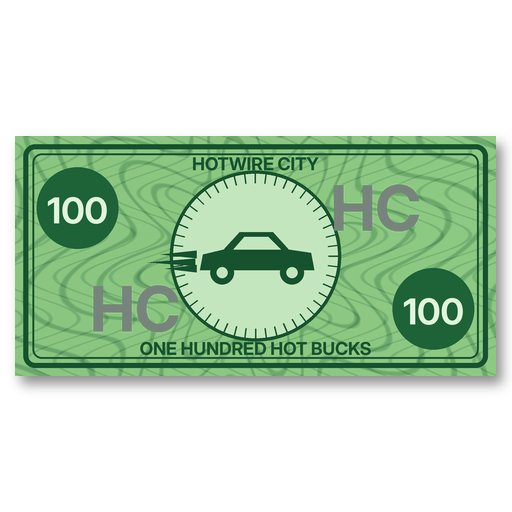
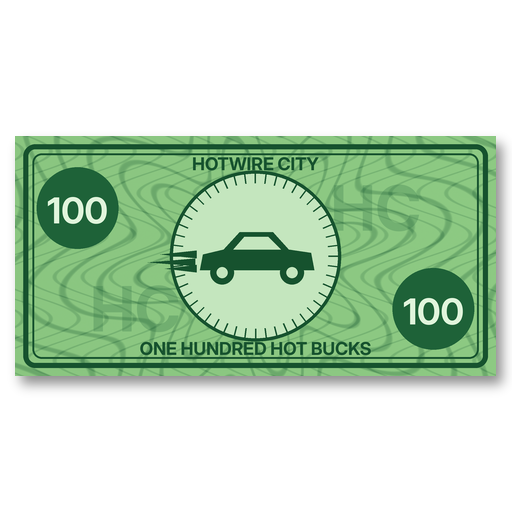
WIP snapshot (auto): workflows in progress
Claude-Session: https://claude.ai/code/session_013hTzzkEbxNRPuu2R1Xna4H

Changed region(s): [[0.625, 0.3438, 0.8125, 0.4688], [0.1562, 0.5625, 0.3438, 0.6562]]

diff --git a/tools/blender/buildkit/bk_arch.py b/tools/blender/buildkit/bk_arch.py
@@ -1,15 +1,26 @@
-"""Building archetypes. Each generator fills one Building with per-role MeshBufs:
+"""Building archetype core. Each generator fills one Building with per-role MeshBufs; every role becomes
+ONE mesh object on export (= one Roblox MeshPart), split into <Role>_1, <Role>_2 ... only if it passes the
+20k-triangle MeshPart limit.
 
-  Walls   main facade material (brick / stucco / curtain-wall spandrel cladding)  tiling PBR, tintable
-  Trim    sills, lintels, cornices, belt courses, storefront piers, slabs         tiling PBR, tintable
-  Accent  deco racing stripes / eyebrows / shutters                              plain colour (recolourable)
-  Frames  window frames, mullions, storefront aluminium                          plain colour (recolourable)
-  Glass   all glazing, UV'd into the 4x4 window-interior atlas                   atlas + low roughness
-  Roof    roof surfaces                                                          tiling PBR
-  Details AC units, fire escapes, railings, water tanks, antennas, louvres      tiling metal PBR
-  Awning  striped canvas                                                         awning atlas
-  Sign    shop signs, hotel blade sign, helipad                                  city-wide sign atlas
-  WindowsLit  copies of ~35% of the glass quads, for night (hidden by day)       lit atlas / Neon
+  Walls    main facade material (brick / stucco / curtain spandrel / corrugated)  tiling PBR, tintable
+  Walls2   secondary facade material (wood slats, stone base, block, marble)       tiling PBR
+  Trim     sills, lintels, cornices, belts, slabs, copings, fascias                tiling PBR, tintable
+  Accent   deco stripes / eyebrows / shutters / canopies                           plain colour (recolourable)
+  Frames   window frames, mullions, storefront aluminium                           plain colour (recolourable)
+  Glass    all glazing, UV'd into the 4x4 window-interior atlas                    atlas + low roughness
+  Roof     roof surfaces (tar, gravel, clay tile, shingle, metal)                  tiling PBR
+  Details  AC units, fire escapes, rails, tanks, pumps, vents, pipes                tiling metal PBR
+  Doors    roller / garage / service doors                                         tiling PBR (shutter)
+  Awning   striped canvas                                                          awning atlas
+  Sign     storefront signs (signs.png)                                            atlas
+  Brand    blades, name boards, price boards, posters (brands.png)                 atlas
+  Grime    alpha dirt decals (rising damp, rain streaks, rust leaks)               RGBA atlas, alpha blend
+  Site     lot paving: parking, forecourt, driveway, pool deck                     tiling PBR
+  Paint    parking stripes / kerb paint                                            plain colour
+  Lawn     lot grass (drop it if the world uses terrain grass)                     tiling PBR
+  Water    pool water                                                              colour, Glass material
+  Neon     tubes, canopy downlights, wall packs: Neon at night                     plain colour
+  WindowsLit  copies of ~35% of the glass quads, for night (hidden by day)         lit atlas / Neon
 
 Building-local space: front faces -Y, origin bottom-centre of the lot, 1 unit = 1 stud.
 """
@@ -24,14 +35,23 @@ PASTELS = {"pink": (0.96, 0.66, 0.70), "mint": (0.62, 0.90, 0.78), "lavender": (
            "peach": (0.99, 0.76, 0.58), "sky": (0.60, 0.82, 0.96), "lemon": (0.98, 0.91, 0.58),
            "white": (0.96, 0.95, 0.92), "coral": (0.97, 0.56, 0.48), "aqua": (0.50, 0.86, 0.88),
            "sand": (0.93, 0.84, 0.68), "terracotta": (0.80, 0.48, 0.36), "olive": (0.70, 0.72, 0.52)}
+# muted, sun-bleached versions used for LA stucco (GTA V Los Santos palette, not candy pastels)
+STUCCO = {"bone": (0.93, 0.90, 0.82), "cream": (0.95, 0.88, 0.72), "sand": (0.86, 0.77, 0.62),
+          "adobe": (0.80, 0.62, 0.48), "sage": (0.70, 0.74, 0.62), "grey": (0.78, 0.78, 0.76),
+          "salmon": (0.90, 0.68, 0.58), "butter": (0.95, 0.86, 0.60), "white": (0.95, 0.95, 0.93),
+          "slate": (0.58, 0.62, 0.64), "taupe": (0.70, 0.64, 0.56), "mint": (0.74, 0.86, 0.78)}
 ACCENTS = {"teal": (0.0, 0.52, 0.55), "coral": (0.93, 0.36, 0.33), "navy": (0.10, 0.18, 0.40),
            "flamingo": (0.95, 0.35, 0.58), "sea": (0.10, 0.62, 0.62), "sun": (0.98, 0.72, 0.12),
            "white": (0.96, 0.96, 0.94), "aqua": (0.25, 0.78, 0.82)}
 FRAMES = {"white": (0.92, 0.92, 0.9), "black": (0.05, 0.05, 0.055), "bronze": (0.22, 0.16, 0.11),
           "green": (0.06, 0.2, 0.14), "silver": (0.62, 0.64, 0.66), "red": (0.45, 0.06, 0.06)}
 
-TILES = {"Walls": 8.0, "Trim": 6.0, "Accent": 6.0, "Frames": 8.0, "Glass": 8.0, "Roof": 16.0,
-         "Details": 6.0, "Awning": 20.8, "Sign": 8.0, "WindowsLit": 8.0}
+TILES = {"Walls": 8.0, "Walls2": 8.0, "Trim": 6.0, "Accent": 6.0, "Frames": 8.0, "Glass": 8.0, "Roof": 16.0,
+         "Details": 6.0, "Doors": 10.0, "Awning": 20.8, "Sign": 8.0, "Brand": 8.0, "Grime": 24.0, "Site": 24.0,
+         "Paint": 8.0, "Lawn": 20.0, "Water": 16.0, "Neon": 8.0, "WindowsLit": 8.0}
+ROLE_ORDER = ["Walls", "Walls2", "Trim", "Accent", "Frames", "Glass", "Roof", "Details", "Doors", "Awning", "Sign",
+              "Brand", "Site", "Paint", "Lawn", "Water", "Neon", "Grime", "WindowsLit"]
+NIGHT_ONLY = {"WindowsLit"}
 
 
 class Building:
@@ -44,6 +64,8 @@ class Building:
         self.lit_ratio = 0.38
         self.footprint = (0, 0)
         self.height = 0
+        self.base_depth = 0.0          # how far below z=0 the model reaches (hillside plinths)
+        self.tags = {}
 
     def b(self, role):
         if role not in self.bufs:
@@ -259,6 +281,31 @@ class Building:
         span = (n - 1) * spacing
         start = width / 2 - span / 2
         return [start + k * spacing for k in range(n)]
+
+    # -- decals / lot ---------------------------------------------------------------------------------
+    def grime(self, F, u0, u1, z0, z1, kind="base", n=0.04):
+        """Alpha dirt quad in front of a facade (kind: base|streak|soot|leak). u tiles every 24 studs."""
+        gu0, gv0, gu1, gv1 = ATLAS["grime"][kind]
+        t = TILES["Grime"]
+        off = self.rng.random()
+        F.quad(self.b("Grime"), u0, u1, z0, z1, n, uv=[(u0 / t + off, gv0), (u1 / t + off, gv0), (u1 / t + off, gv1), (u0 / t + off, gv1)])
+
+    def grime_base(self, Fs, h=7.0, z=0.0, sides=None, n=0.04):
+        for side, F in Fs.items():
+            if sides is None or side in sides:
+                self.grime(F, 0.0, F.W, z, z + h, "base", n)
+
+    def brand(self, F, uc, z0, key, height, n=0.0, frame="Frames", depth=0.45, border=0.25):
+        u0_, v0, u1_, v1 = ATLAS["brands"][key]
+        w = height * (u1_ - u0_) / (v1 - v0)
+        u0, u1 = uc - w / 2, uc + w / 2
+        if depth > 0:
+            F.box(self.b(frame), u0 - border, u1 + border, n, n + depth, z0 - border, z0 + height + border)
+        F.quad(self.b("Brand"), u0, u1, z0, z0 + height, n + depth + 0.02, uv=(u0_, v0, u1_, v1))
+        return w
+
+    def slab(self, role, x0, y0, x1, y1, z, t=0.3, skip=("bottom",)):
+        G.box(self.b(role), x0, y0, z - t, x1, y1, z, skip=skip)
 
     # -- output ---------------------------------------------------------------------------------------
     def stats(self):

diff --git a/tools/blender/buildkit/bk_geo.py b/tools/blender/buildkit/bk_geo.py
@@ -334,6 +334,134 @@ class Facade:
             quad(buf, P(u0, z0, -depth), P(u0, z0, 0), P(u0, z1, 0), P(u0, z1, -depth))
 
 
+# ----------------------------------------------------------------------------- roofs / misc solids
+def slope_uv(pts, along, tile, off=(0.0, 0.0)):
+    """UV for a sloped roof face: u along the eave direction `along`, v up the slope (from the lowest vertex)."""
+    a = Vector(along).normalized()
+    n = Vector(_newell(pts))
+    up = n.cross(a).normalized()
+    if up.z < 0:
+        up = -up
+    p0 = Vector(pts[0])
+    return [(((Vector(p) - p0).dot(a)) / tile + off[0], ((Vector(p) - p0).dot(up)) / tile + off[1]) for p in pts]
+
+
+def poly(buf, pts, uv_along=None, tile=None):
+    """Single planar polygon (any count, convex), CCW seen from the front. uv_along -> slope_uv."""
+    t = tile or buf.tile
+    uv = slope_uv(pts, uv_along, t) if uv_along is not None else None
+    buf.add([tuple(p) for p in pts], [tuple(range(len(pts)))], None if uv is None else [uv], tile=t)
+
+
+def tri(buf, a, b, c, uv_along=None, tile=None):
+    poly(buf, [a, b, c], uv_along, tile)
+
+
+def hip_roof(roof, x0, y0, x1, y1, z, pitch=0.42, overhang=1.5, ridge_axis=None, fascia=None, fascia_h=0.9, soffit=None):
+    """Hip roof over rect (x0..x1, y0..y1) at eave height z. pitch = rise/run. Returns ridge height.
+    fascia/soffit: optional MeshBufs for the eave board and the underside."""
+    X0, Y0, X1, Y1 = x0 - overhang, y0 - overhang, x1 + overhang, y1 + overhang
+    W, D = X1 - X0, Y1 - Y0
+    if ridge_axis is None:
+        ridge_axis = "x" if W >= D else "y"
+    if ridge_axis == "x":
+        h = D / 2 * pitch
+        r0, r1 = (X0 + D / 2, (Y0 + Y1) / 2, z + h), (X1 - D / 2, (Y0 + Y1) / 2, z + h)
+        if r0[0] > r1[0]:
+            r0 = r1 = ((X0 + X1) / 2, (Y0 + Y1) / 2, z + h)
+        poly(roof, [(X0, Y0, z), (X1, Y0, z), r1, r0], uv_along=(1, 0, 0))
+        poly(roof, [(X1, Y1, z), (X0, Y1, z), r0, r1], uv_along=(-1, 0, 0))
+        tri(roof, (X1, Y0, z), (X1, Y1, z), r1, uv_along=(0, 1, 0))
+        tri(roof, (X0, Y1, z), (X0, Y0, z), r0, uv_along=(0, -1, 0))
+    else:
+        h = W / 2 * pitch
+        r0, r1 = ((X0 + X1) / 2, Y0 + W / 2, z + h), ((X0 + X1) / 2, Y1 - W / 2, z + h)
+        if r0[1] > r1[1]:
+            r0 = r1 = ((X0 + X1) / 2, (Y0 + Y1) / 2, z + h)
+        poly(roof, [(X1, Y0, z), (X1, Y1, z), r1, r0], uv_along=(0, 1, 0))
+        poly(roof, [(X0, Y1, z), (X0, Y0, z), r0, r1], uv_along=(0, -1, 0))
+        tri(roof, (X0, Y0, z), (X1, Y0, z), r0, uv_along=(1, 0, 0))
+        tri(roof, (X1, Y1, z), (X0, Y1, z), r1, uv_along=(-1, 0, 0))
+    _eave(X0, Y0, X1, Y1, z, fascia, fascia_h, soffit, x0, y0, x1, y1)
+    return z + h
+
+
+def gable_roof(roof, x0, y0, x1, y1, z, pitch=0.42, overhang=1.5, ridge_axis="x", fascia=None, fascia_h=0.9,
+               soffit=None, gable_wall=None, rake=None):
+    """Gable roof; the triangular gable ends are added to `gable_wall` (flush with the wall plane)."""
+    X0, Y0, X1, Y1 = x0 - overhang, y0 - overhang, x1 + overhang, y1 + overhang
+    if ridge_axis == "x":
+        h = (Y1 - Y0) / 2 * pitch
+        yc = (Y0 + Y1) / 2
+        poly(roof, [(X0, Y0, z), (X1, Y0, z), (X1, yc, z + h), (X0, yc, z + h)], uv_along=(1, 0, 0))
+        poly(roof, [(X1, Y1, z), (X0, Y1, z), (X0, yc, z + h), (X1, yc, z + h)], uv_along=(-1, 0, 0))
+        if gable_wall is not None:
+            zw = z - overhang * pitch * 0.0
+            hh = (y1 - y0) / 2 * pitch + overhang * pitch
+            tri(gable_wall, (x0, y1, z), (x0, y0, z), (x0, (y0 + y1) / 2, z + hh))
+            tri(gable_wall, (x1, y0, z), (x1, y1, z), (x1, (y0 + y1) / 2, z + hh))
+        if rake is not None:   # barge boards along the sloped edges
+            for X in (X0, X1):
+                for (ya, yb) in ((Y0, yc), (Y1, yc)):
+                    za, zb = z, z + h
+                    poly(rake, [(X, ya, za - fascia_h), (X, yb, zb - fascia_h), (X, yb, zb), (X, ya, za)][::(1 if (X == X1) == (yb > ya) else -1)])
+        if fascia is not None:
+            for Y, sgn in ((Y0, -1), (Y1, 1)):
+                box(fascia, X0, Y - 0.15 if sgn < 0 else Y - 0.05, z - fascia_h, X1, Y + 0.05 if sgn < 0 else Y + 0.15, z + 0.05)
+        if soffit is not None:
+            for (ya, yb) in ((Y0, y0), (y1, Y1)):
+                poly(soffit, [(X0, ya, z - 0.05), (X0, yb, z - 0.05), (X1, yb, z - 0.05), (X1, ya, z - 0.05)])
+    else:
+        h = (X1 - X0) / 2 * pitch
+        xc = (X0 + X1) / 2
+        poly(roof, [(X1, Y0, z), (X1, Y1, z), (xc, Y1, z + h), (xc, Y0, z + h)], uv_along=(0, 1, 0))
+        poly(roof, [(X0, Y1, z), (X0, Y0, z), (xc, Y0, z + h), (xc, Y1, z + h)], uv_along=(0, -1, 0))
+        if gable_wall is not None:
+            hh = (x1 - x0) / 2 * pitch + overhang * pitch
+            tri(gable_wall, (x0, y0, z), (x1, y0, z), ((x0 + x1) / 2, y0, z + hh))
+            tri(gable_wall, (x1, y1, z), (x0, y1, z), ((x0 + x1) / 2, y1, z + hh))
+        if fascia is not None:
+            for X, sgn in ((X0, -1), (X1, 1)):
+                box(fascia, X - 0.15 if sgn < 0 else X - 0.05, Y0, z - fascia_h, X + 0.05 if sgn < 0 else X + 0.15, Y1, z + 0.05)
+        if soffit is not None:
+            for (xa, xb) in ((X0, x0), (x1, X1)):
+                poly(soffit, [(xa, Y0, z - 0.05), (xb, Y0, z - 0.05), (xb, Y1, z - 0.05), (xa, Y1, z - 0.05)][::-1])
+    return z + h
+
+
+def _eave(X0, Y0, X1, Y1, z, fascia, fh, soffit, x0, y0, x1, y1):
+    if fascia is not None:
+        box(fascia, X0 - 0.15, Y0 - 0.15, z - fh, X1 + 0.15, Y0 + 0.05, z + 0.05, skip=("back",))
+        box(fascia, X0 - 0.15, Y1 - 0.05, z - fh, X1 + 0.15, Y1 + 0.15, z + 0.05)
+        box(fascia, X0 - 0.15, Y0 + 0.05, z - fh, X0 + 0.05, Y1 - 0.05, z + 0.05)
+        box(fascia, X1 - 0.05, Y0 + 0.05, z - fh, X1 + 0.15, Y1 - 0.05, z + 0.05)
+    if soffit is not None:
+        zz = z - fh + 0.02
+        for q in (((X0, Y0), (X1, Y0), (x1, y0), (x0, y0)), ((X1, Y0), (X1, Y1), (x1, y1), (x1, y0)),
+                  ((X1, Y1), (X0, Y1), (x0, y1), (x1, y1)), ((X0, Y1), (X0, Y0), (x0, y0), (x0, y1))):
+            poly(soffit, [(p[0], p[1], zz) for p in q][::-1])
+
+
+def shed_roof(roof, x0, y0, x1, y1, z_low, z_high, overhang=1.0, low_side="-y"):
+    X0, Y0, X1, Y1 = x0 - overhang, y0 - overhang, x1 + overhang, y1 + overhang
+    if low_side == "-y":
+        poly(roof, [(X0, Y0, z_low), (X1, Y0, z_low), (X1, Y1, z_high), (X0, Y1, z_high)], uv_along=(1, 0, 0))
+    else:
+        poly(roof, [(X1, Y1, z_low), (X0, Y1, z_low), (X0, Y0, z_high), (X1, Y0, z_high)], uv_along=(-1, 0, 0))
+
+
+def prism(buf, loop, z0, z1, top=True, bottom=False, tile=None):
+    """Vertical extrusion of a CCW loop (walls + optional caps). Concave caps are not supported."""
+    n = len(loop)
+    for i in range(n):
+        a, b = loop[i], loop[(i + 1) % n]
+        quad(buf, (a[0], a[1], z0), (b[0], b[1], z0), (b[0], b[1], z1), (a[0], a[1], z1), tile=tile)
+    if top:
+        cap(buf, loop, z1, up=True, tile=tile)
+    if bottom:
+        cap(buf, loop, z0, up=False, tile=tile)
+
+
 # ----------------------------------------------------------------------------- to Blender
 def to_object(buf, material, collection, parent=None, sharp_deg=50.0, weighted=True):
     me = bpy.data.meshes.new(buf.name)

diff --git a/tools/blender/carpipe/inspect_model.py b/tools/blender/carpipe/inspect_model.py
@@ -1,0 +1,55 @@
+#!/usr/bin/env python3
+"""Print what a car model file contains (objects, materials, tris, bbox) after carpipe's import+flatten.
+
+    python3 -I tools/blender/carpipe/inspect_model.py path/to/car.glb
+"""
+import os
+import sys
+
+HERE = os.path.dirname(os.path.abspath(__file__))
+sys.path.insert(0, HERE)
+
+import bpy  # noqa: E402
+import numpy as np  # noqa: E402
+
+from carpipe import importer, util  # noqa: E402
+
+
+def main(path):
+    util.reset_scene()
+    importer.import_any(path)
+    objs = importer.flatten()
+    importer.discover_textures(os.path.dirname(path))
+    allv = np.concatenate([util.verts_np(o.data) for o in objs])
+    print("BBOX min", util.fmt3(allv.min(0)), "max", util.fmt3(allv.max(0)), "size", util.fmt3(allv.ptp(0) if hasattr(allv, 'ptp') else allv.max(0) - allv.min(0)))
+    tot = 0
+    for o in sorted(objs, key=lambda o: -util.tri_count(o)):
+        t = util.tri_count(o)
+        tot += t
+        v = util.verts_np(o.data)
+        c = (v.min(0) + v.max(0)) / 2
+        mats = [s.material.name if s.material else "-" for s in o.material_slots]
+        print(f"{t:7d} tris  {o.name[:40]:40s} c={util.fmt3(c, 2)} size={util.fmt3(v.max(0) - v.min(0), 2)} mats={mats[:6]} path={o.get('cp_path', '')[:60]}")
+    print("TOTAL tris", tot)
+    for m in bpy.data.materials:
+        b = importer._principled(m)
+        if b is None:
+            print("MAT", m.name, "(no principled)")
+            continue
+        def val(n):
+            i = b.inputs.get(n)
+            if i is None:
+                return None
+            if i.is_linked:
+                return "tex:" + i.links[0].from_node.bl_idname
+            d = i.default_value
+            try:
+                return [round(x, 2) for x in d]
+            except TypeError:
+                return round(d, 2)
+        print("MAT", m.name, "base", val("Base Color"), "met", val("Metallic"), "rough", val("Roughness"),
+              "trans", val("Transmission Weight"), "alpha", val("Alpha"), "emis", val("Emission Color"), val("Emission Strength"))
+
+
+if __name__ == "__main__":
+    main(sys.argv[1])

diff --git a/tools/vfx/gen_textures.py b/tools/vfx/gen_textures.py
@@ -689,8 +689,12 @@ def bill_image(W=1024, H=512):
         d.text((tx, ty + h * 0.01), "100", font=_font(int(h * 0.15)), fill=light, anchor=anchor)
     d.text((w * 0.5, h * 0.115), "HOTWIRE CITY", font=small, fill=ink, anchor="mm")
     d.text((w * 0.5, h * 0.885), "ONE HUNDRED HOT BUCKS", font=small, fill=ink, anchor="mm")
-    d.text((w * 0.25, h * 0.72), "HC", font=big, fill=(30, 98, 56, 50), anchor="mm")
-    d.text((w * 0.75, h * 0.3), "HC", font=big, fill=(30, 98, 56, 50), anchor="mm")
+    # faint watermarks on their own layer (ImageDraw writes RGBA straight through: no in-place blending)
+    wm = Image.new("RGBA", img.size, (0, 0, 0, 0))
+    dw = ImageDraw.Draw(wm)
+    dw.text((w * 0.25, h * 0.72), "HC", font=big, fill=(30, 98, 56, 60), anchor="mm")
+    dw.text((w * 0.75, h * 0.3), "HC", font=big, fill=(30, 98, 56, 60), anchor="mm")
+    img = Image.alpha_composite(img, wm)
     img = img.resize((W, H), Image.LANCZOS)
     return img
 

diff --git a/tools/blender/carpipe/carpipe/importer.py b/tools/blender/carpipe/carpipe/importer.py
@@ -156,11 +156,11 @@ def flatten(subsurf_cap: int = 1):
         if o.data.users > 1:
             o.data = o.data.copy()
     for o in meshes:
+        neg = o.matrix_world.determinant() < 0
         o.data.transform(o.matrix_world)
         o.matrix_world.identity()
-        if o.matrix_world.determinant() < 0:
-            pass
-    # negative-scale objects flip winding; mesh.transform handles vertex positions but normals need flipping
+        if neg:  # mirrored instance: baking the transform turns the faces inside out
+            o.data.flip_normals()
     vl.update()
     log(f"flatten: {len(meshes)} mesh objects, {sum(len(o.data.polygons) for o in meshes)} faces")
     return meshes

diff --git a/tools/blender/carpipe/carpipe/__init__.py b/tools/blender/carpipe/carpipe/__init__.py
@@ -1,0 +1,1 @@
+"""carpipe: import any realistic car model and turn it into a Roblox-ready, rigged, paintable GLB + JSON sidecar."""
